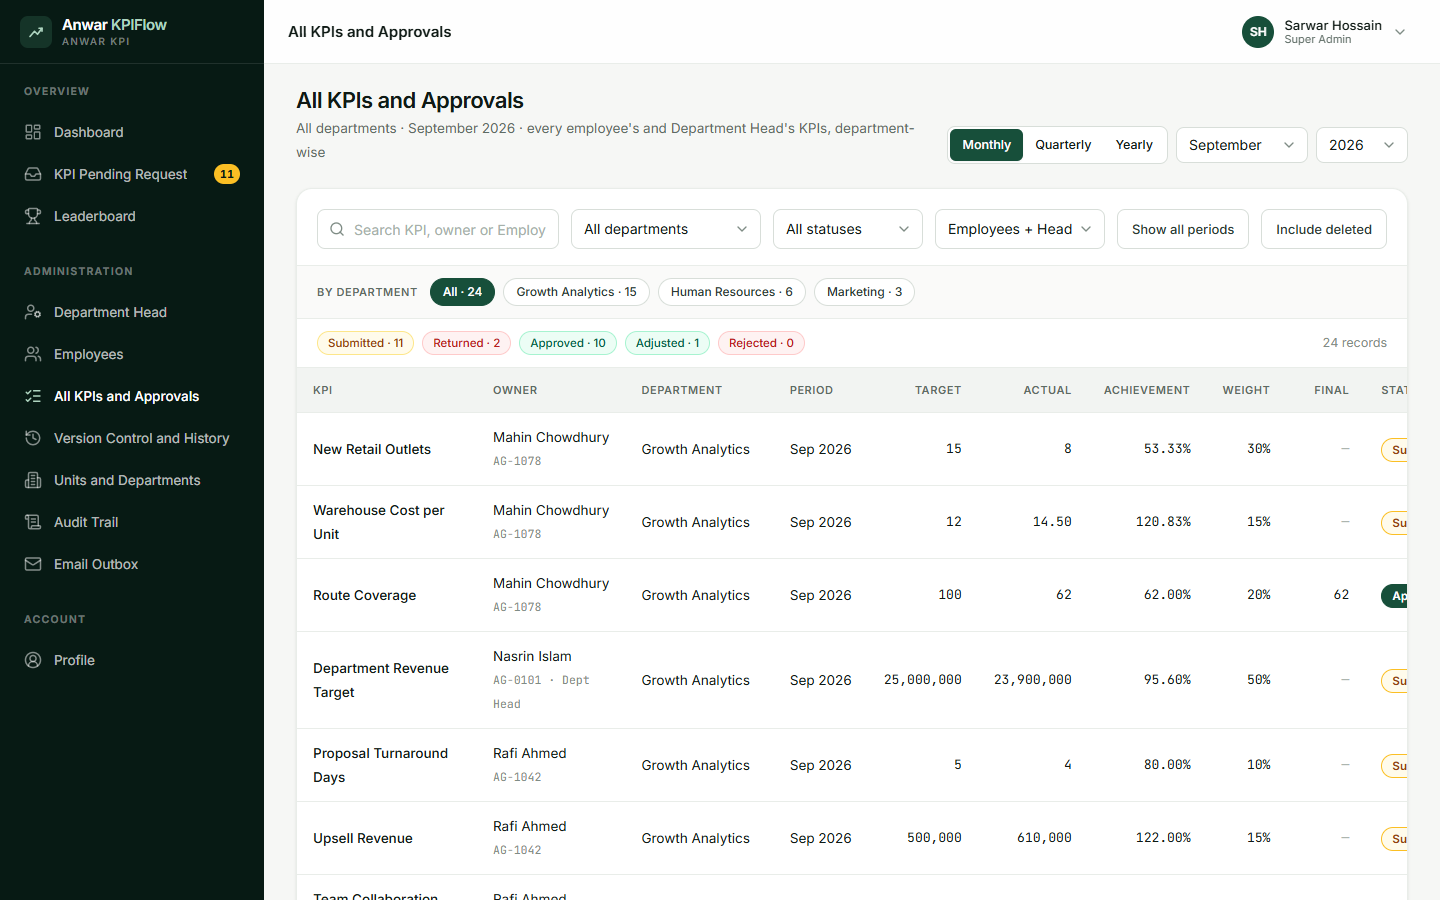
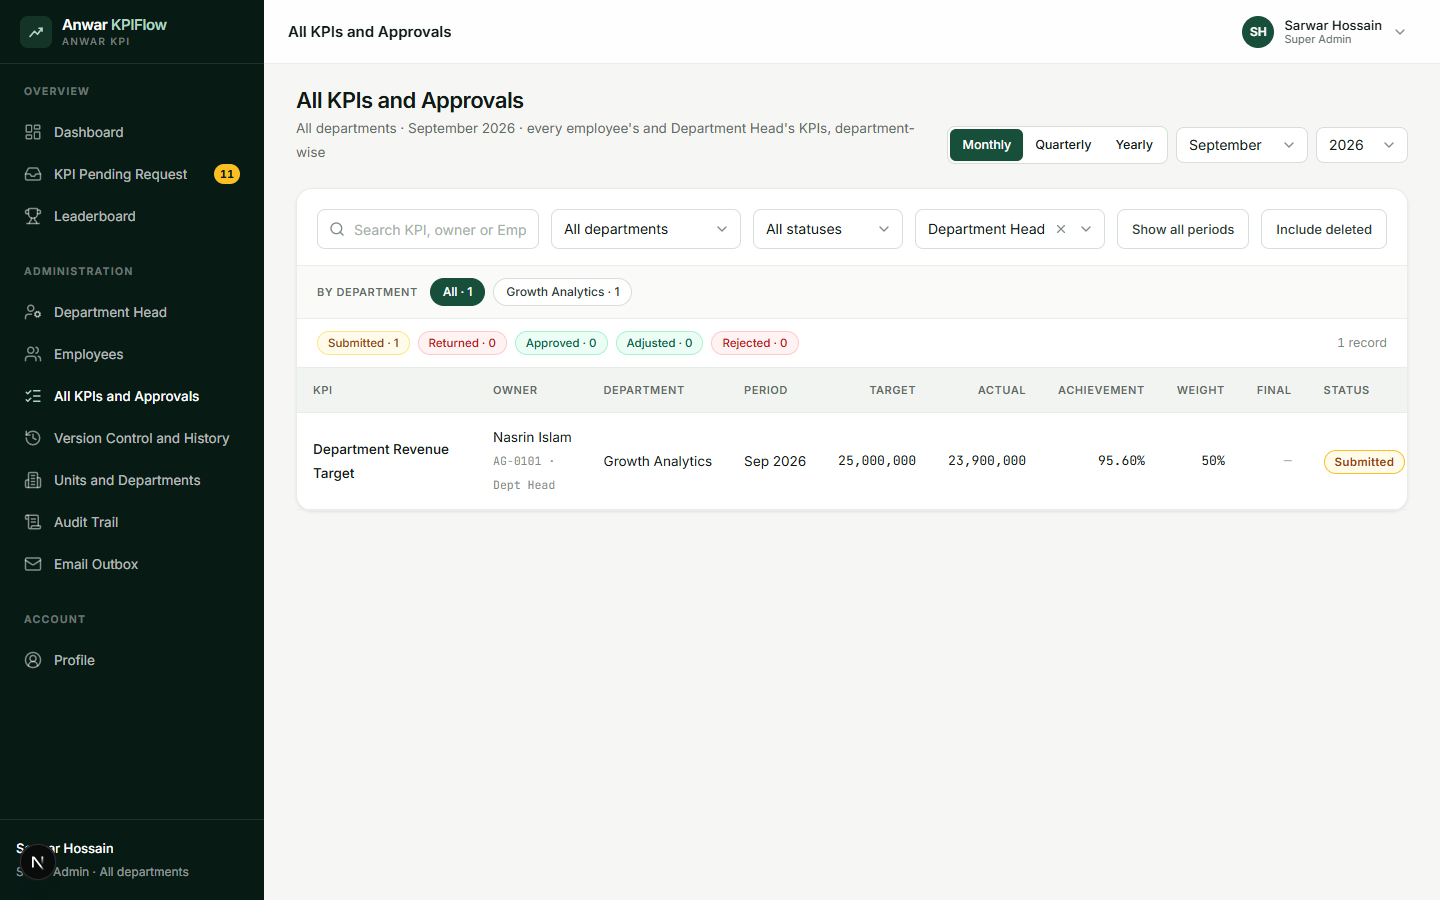
All KPIs and Approvals: role dropdown with Employee and Department Head options and a clear control

diff --git a/anwar-kpiflow/src/app/(app)/admin/kpis/filters.tsx b/anwar-kpiflow/src/app/(app)/admin/kpis/filters.tsx
@@ -1,7 +1,7 @@
 "use client";
 
 import { useRouter, usePathname, useSearchParams } from "next/navigation";
-import { Search } from "lucide-react";
+import { Search, X } from "lucide-react";
 import { Input, Select } from "@/components/ui/field";
 import { STATUS_LABELS } from "@/lib/constants";
 import { cn } from "@/lib/utils";
@@ -22,9 +22,9 @@ function useApply() {
 }
 
 export function KpiFilters({
-  departments, q, status, dept, deleted, allPeriods,
+  departments, q, status, dept, role, deleted, allPeriods,
 }: {
-  departments: { id: string; name: string }[]; q: string; status: string; dept: string; deleted: boolean; allPeriods: boolean;
+  departments: { id: string; name: string }[]; q: string; status: string; dept: string; role: string; deleted: boolean; allPeriods: boolean;
 }) {
   const apply = useApply();
   return (
@@ -41,6 +41,18 @@ export function KpiFilters({
         <option value="">All statuses</option>
         {Object.entries(STATUS_LABELS).map(([k, v]) => <option key={k} value={k}>{v}</option>)}
       </Select>
+      <div className="relative lg:w-[190px]">
+        <Select aria-label="Role" className={cn(role && "pr-14", !role && "text-ink-500")} value={role} onChange={(e) => apply({ role: e.target.value })}>
+          <option value="" disabled>Filter by role</option>
+          <option value="EMPLOYEE">Employee</option>
+          <option value="DEPARTMENT_HEAD">Department Head</option>
+        </Select>
+        {role && (
+          <button type="button" onClick={() => apply({ role: "" })} aria-label="Clear role filter" title="Show all roles" className="absolute right-8 top-1/2 -translate-y-1/2 h-6 w-6 rounded-md flex items-center justify-center text-ink-400 hover:text-ink-900 hover:bg-ink-100">
+            <X className="h-3.5 w-3.5" />
+          </button>
+        )}
+      </div>
       <button onClick={() => apply({ all: allPeriods ? "" : "1" })} className={cn("h-10 px-3.5 rounded-lg border text-[13px] font-medium whitespace-nowrap", allPeriods ? "bg-brand-700 border-brand-700 text-white" : "bg-white border-ink-200 text-ink-700 hover:bg-ink-100/60")}>
         {allPeriods ? "Showing all periods" : "Show all periods"}
       </button>

diff --git a/anwar-kpiflow/src/app/(app)/admin/kpis/page.tsx b/anwar-kpiflow/src/app/(app)/admin/kpis/page.tsx
@@ -29,6 +29,7 @@ export default async function AllKpisPage({ searchParams }: { searchParams: Prom
   const where: Prisma.KpiWhereInput = {
     ...(sp.deleted === "1" ? {} : { deletedAt: null }),
     ...(sp.status ? { status: sp.status } : {}),
+    ...(sp.role ? { owner: { role: sp.role } } : {}),
     ...(sp.q ? { OR: [{ name: { contains: sp.q, mode: "insensitive" } }, { owner: { fullName: { contains: sp.q, mode: "insensitive" } } }, { owner: { employeeId: { contains: sp.q, mode: "insensitive" } } }] } : {}),
     ...(allPeriods ? {} : { periodYear: period.year, periodMonth: { gte: period.fromMonth, lte: period.toMonth } }),
   };
@@ -56,7 +57,7 @@ export default async function AllKpisPage({ searchParams }: { searchParams: Prom
         action={<PeriodFilter period={period} />}
       />
       <Card>
-        <KpiFilters departments={departments} q={sp.q ?? ""} status={sp.status ?? ""} dept={sp.dept ?? ""} deleted={sp.deleted === "1"} allPeriods={allPeriods} />
+        <KpiFilters departments={departments} q={sp.q ?? ""} status={sp.status ?? ""} dept={sp.dept ?? ""} role={sp.role ?? ""} deleted={sp.deleted === "1"} allPeriods={allPeriods} />
         <DepartmentChips total={allInPeriod.length} counts={deptCounts} active={sp.dept ?? ""} />
         <div className="px-5 py-3 flex flex-wrap gap-2 border-b border-ink-100">
           {summary.map(({ s, n }) => <Pill key={s} tone={s === "SUBMITTED" ? "amber" : s === "REJECTED" || s === "RETURNED" ? "red" : "green"}>{STATUS_LABELS[s as KpiStatus]} · {n}</Pill>)}
